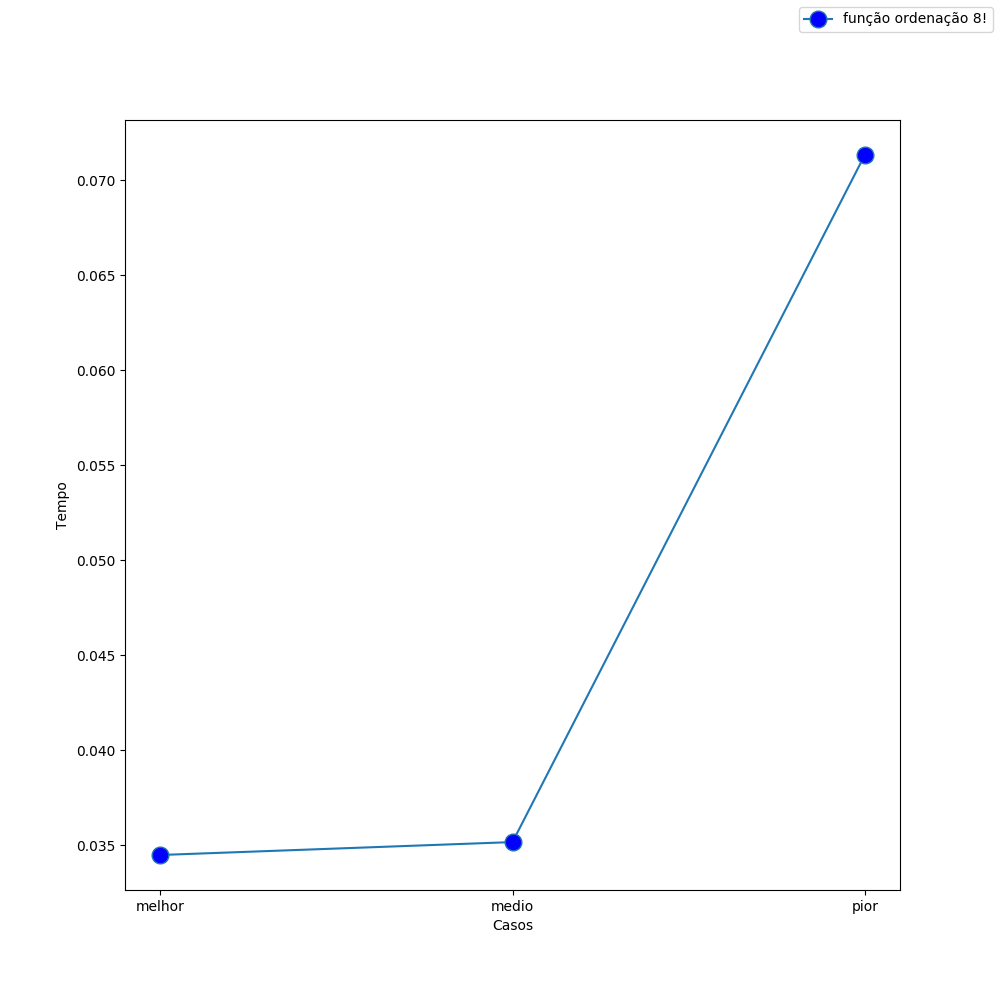
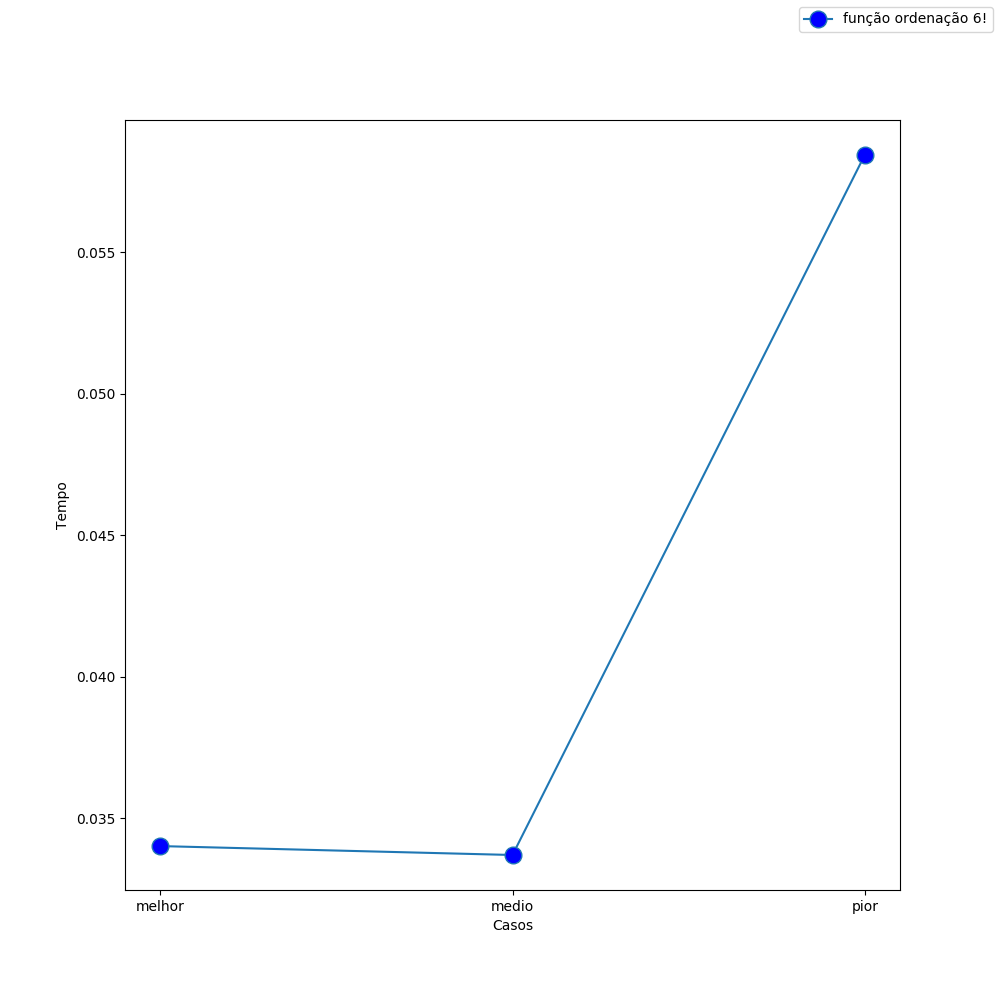
CT 0202 - Parte 2

diff --git a/selection_part2/main.py b/selection_part2/main.py
@@ -62,4 +62,4 @@ temps.append(sortTempos[0]) # adiciono o menor tempo
 temps.append(sortTempos[int(len(sortTempos)/2)]) # adiciono o tempo medio
 temps.append(sortTempos[len(sortTempos)-1]) # adiciono o maior tempo
 casos = ["melhor", "medio", "pior"]
-geraGraf(casos, temps, "Casos", "Tempo", "função ordenação 8!", "tempos.png")
+geraGraf(casos, temps, "Casos", "Tempo", "função ordenação 6!", "tempos.png")
